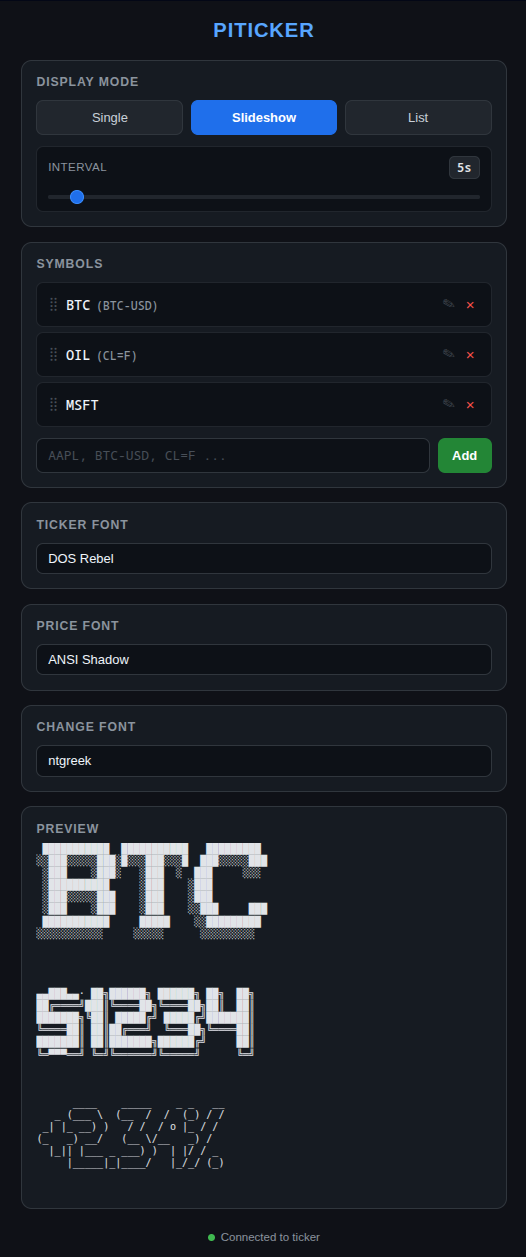
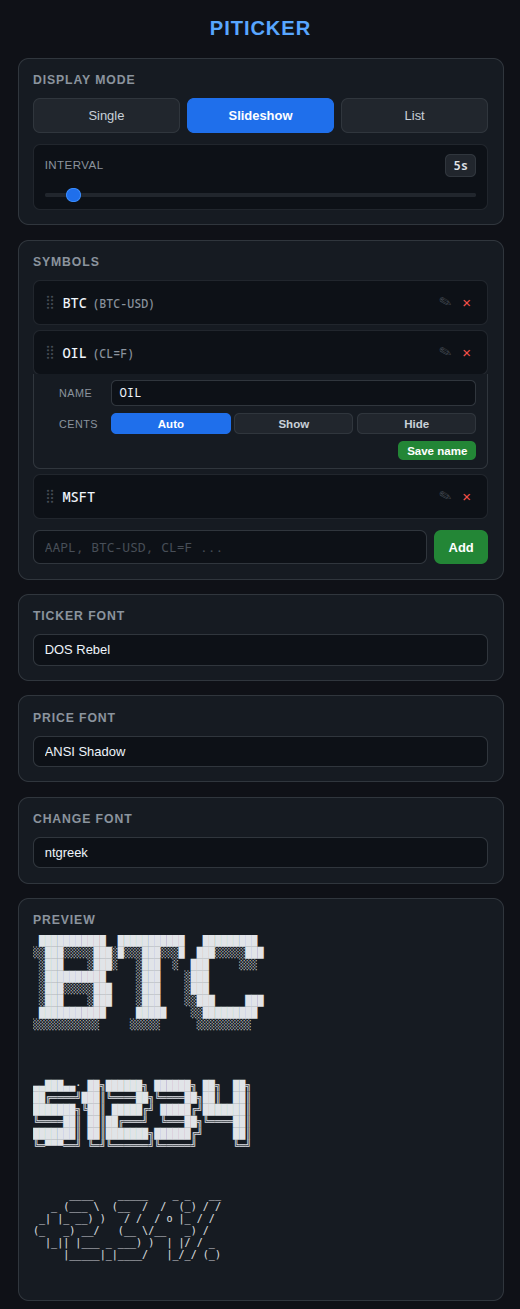
docs: update webapp screenshot with per-symbol settings, add list mode note

diff --git a/README.md b/README.md
@@ -70,7 +70,7 @@ All symbols displayed simultaneously in a color-coded table with columns for sym
 
 Best for a quick dashboard view of everything at once.
 
-<!-- TODO: list mode photo -->
+> **Note:** List mode currently uses plain console text, which is barely readable on a 3.5" GPIO display. Planning to convert it to figlet rendering once I find a compact font that works well in a table layout.
 
 ## Features
 
